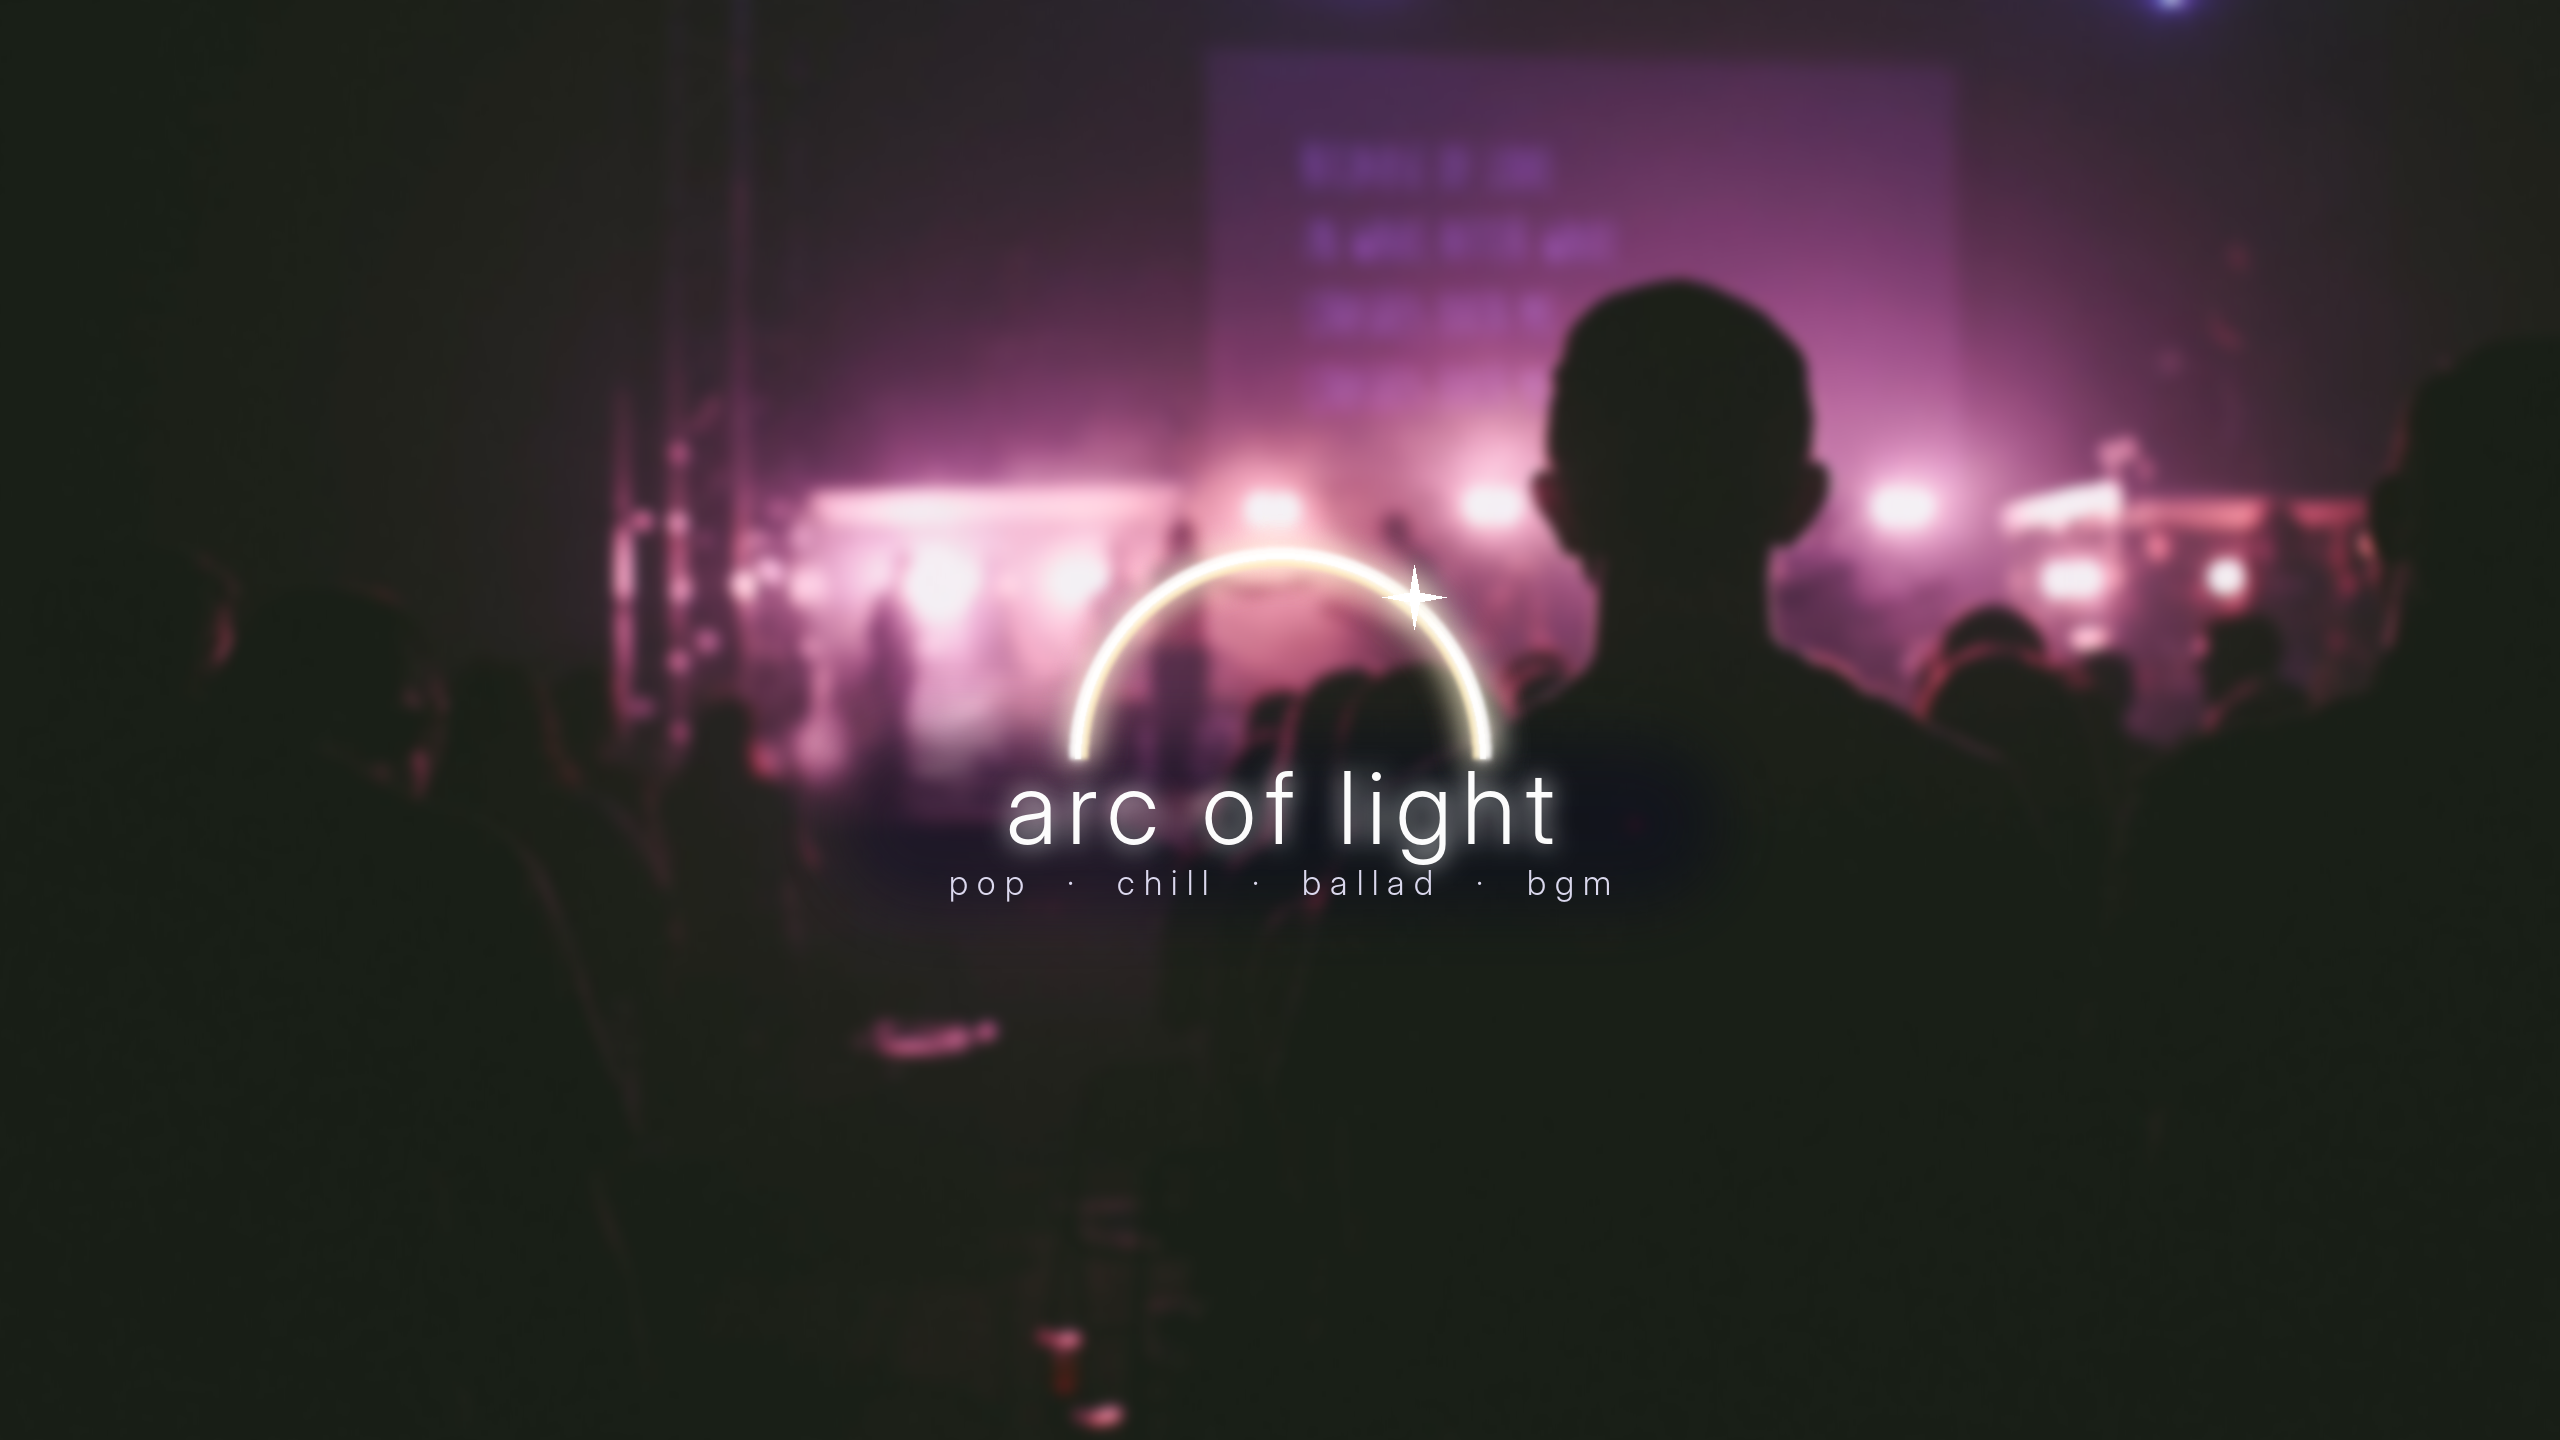
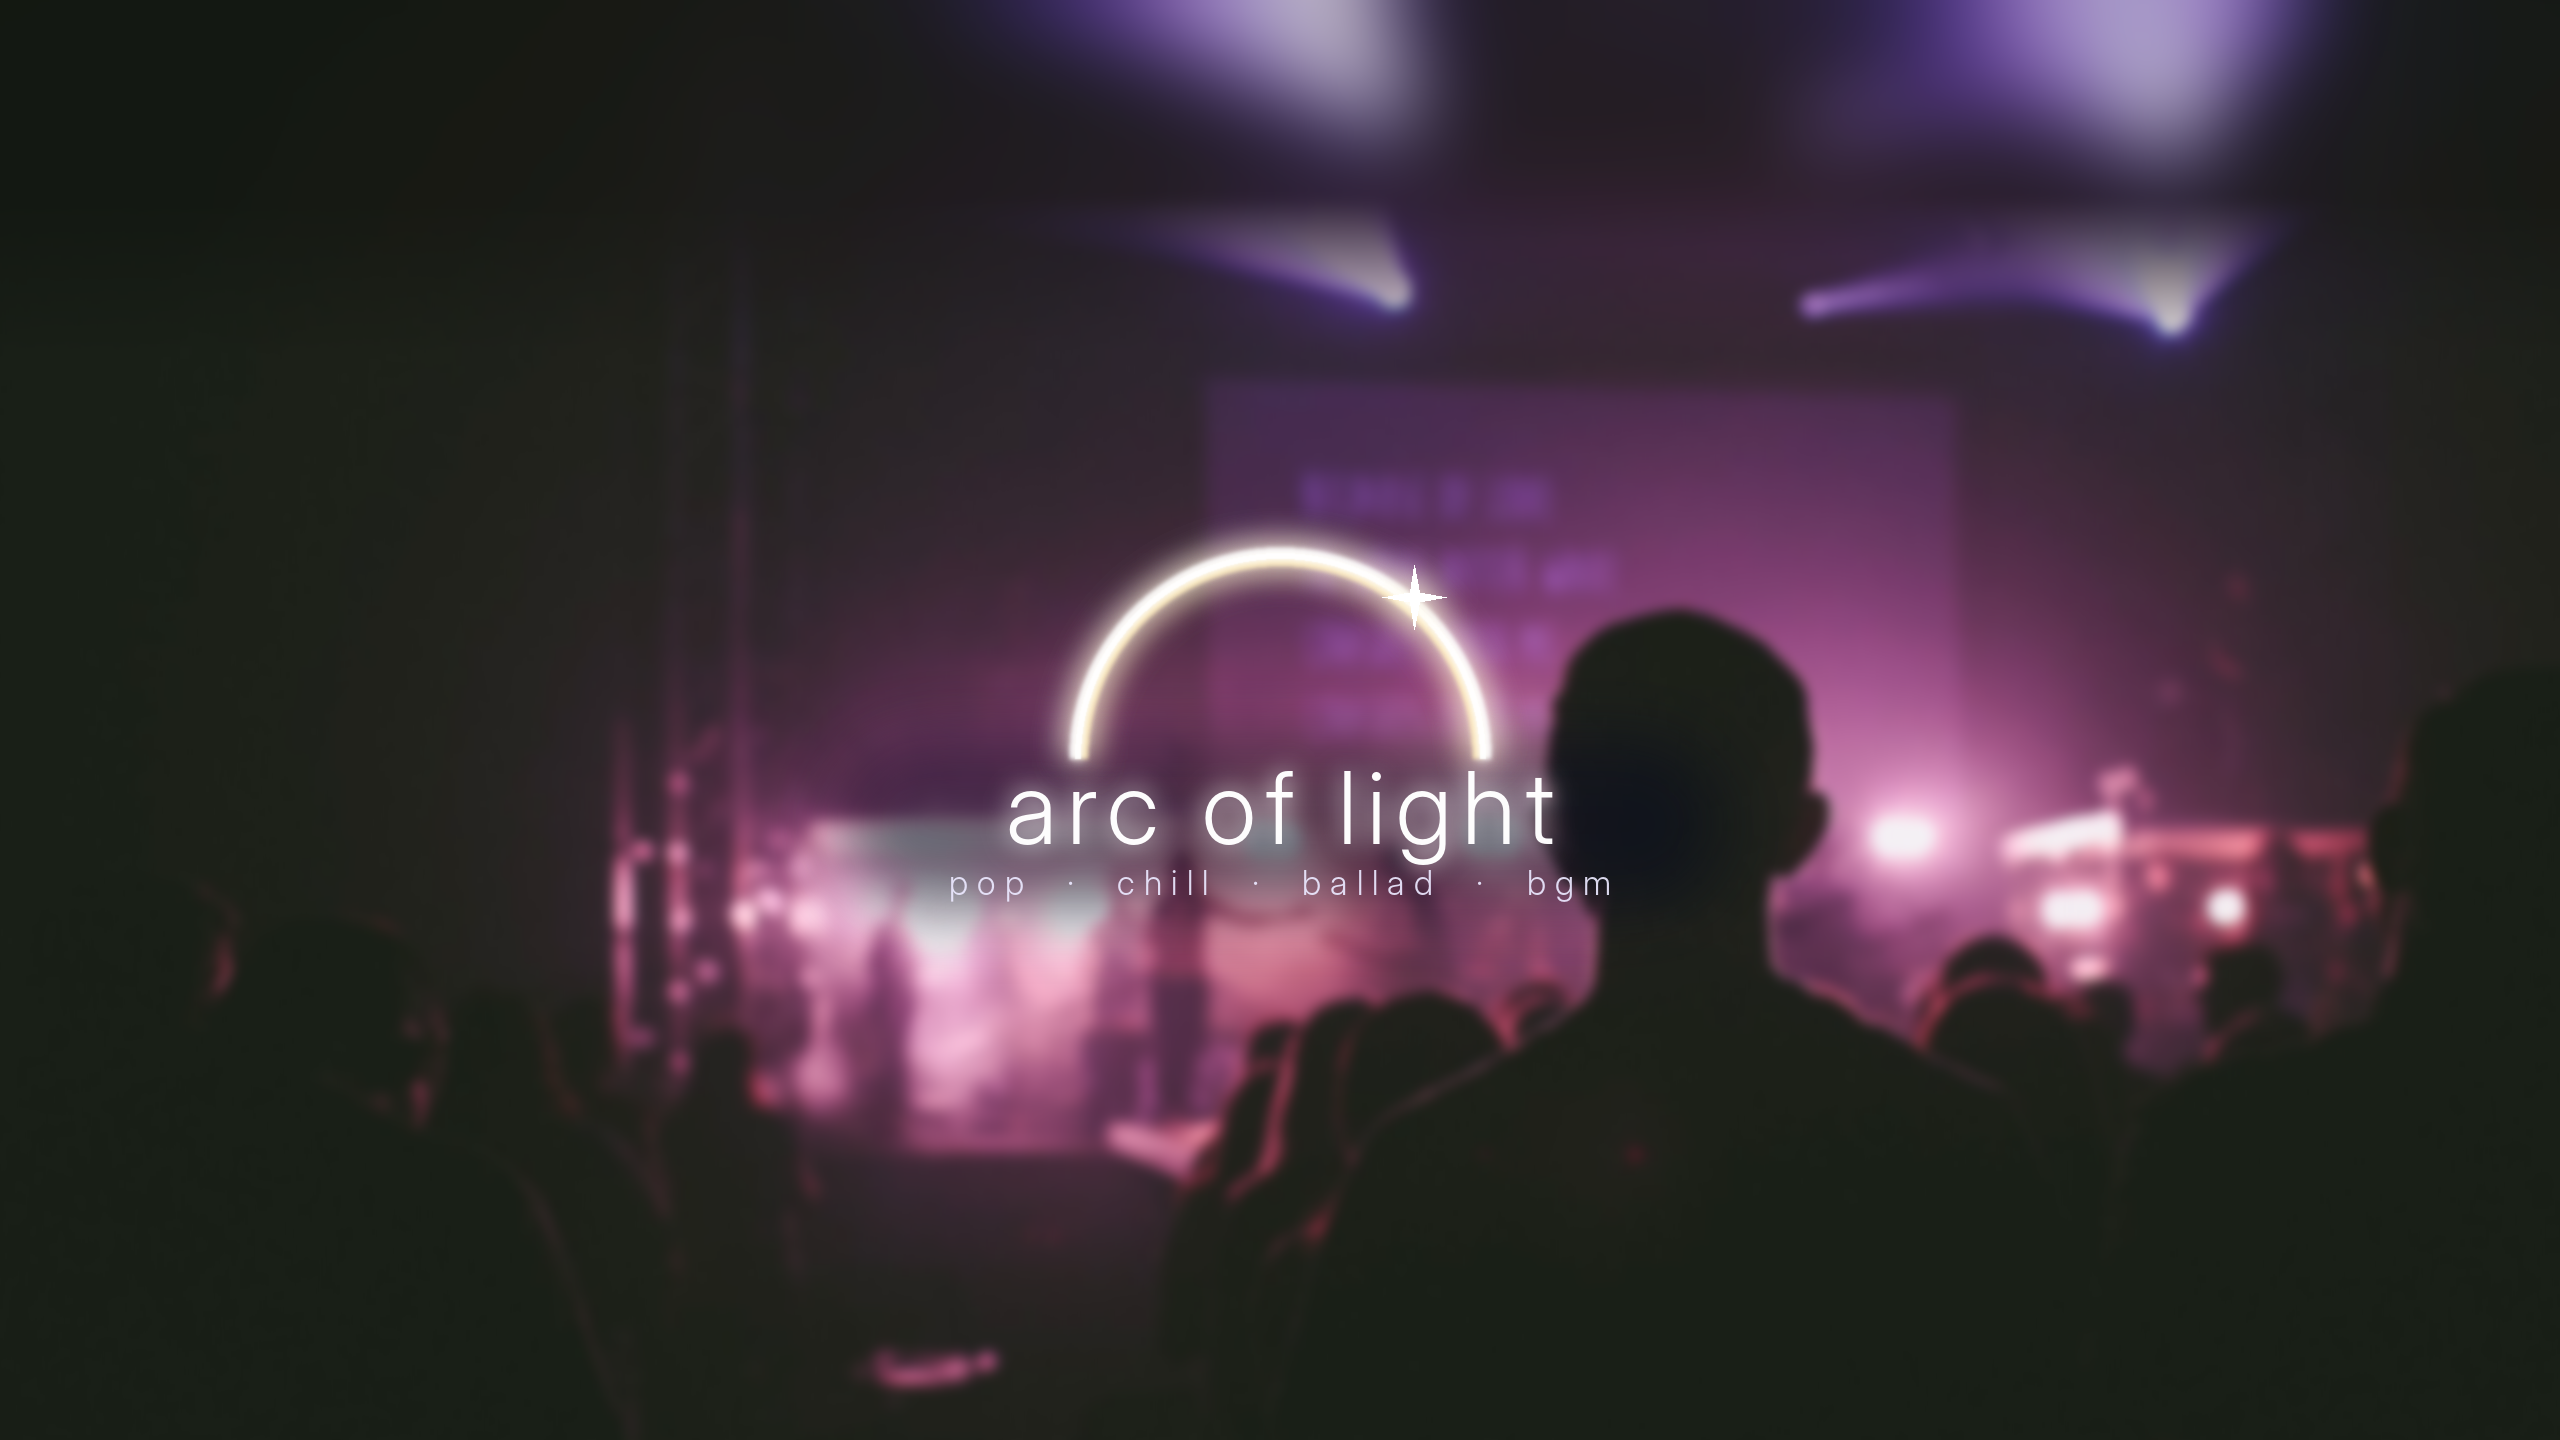
arc of light：ライブ版バナーの写真を下へずらし、後ろ姿の頭を中央の枠に収める
Claude-Session: https://claude.ai/code/session_016yye45m5vLS41jvX7Nye7Y

diff --git a/arc_of_light/make_brand_images.py b/arc_of_light/make_brand_images.py
@@ -210,14 +210,29 @@ def all_old():
     print("done")
 
 
-def photo_bg(path, w, h, bright=1.08, soften=0):
+def photo_bg(path, w, h, bright=1.08, soften=0, yshift=0):
     # 写真を枠いっぱいに切り抜き、少し明るく、やわらかくする
     from PIL import ImageEnhance
     p = Image.open(path).convert("RGB")
     s = max(w / p.width, h / p.height)
     p = p.resize((int(p.width * s) + 1, int(p.height * s) + 1), Image.LANCZOS)
     x, y = (p.width - w) // 2, (p.height - h) // 2
-    p = p.crop((x, y, x + w, y + h))
+    if yshift:
+        # 写真を下へずらす（人の頭などを中央の枠に入れる）。上にできるすき間は、
+        # 写真の上の方を引きのばしてぼかした物で埋め、つなぎ目はぼかしてなじませる
+        canvas = p.crop((x, 0, x + w, max(1, y + h - yshift))).resize((w, h)).filter(ImageFilter.GaussianBlur(40))
+        canvas = ImageEnhance.Brightness(canvas).enhance(0.8)
+        top = y - yshift
+        part = p.crop((x, max(0, top), x + w, y + h - yshift))
+        mask = Image.new("L", part.size, 255)
+        feather = 160
+        md = ImageDraw.Draw(mask)
+        for i in range(feather):
+            md.line([(0, i), (part.width, i)], fill=int(255 * i / feather))
+        canvas.paste(part, (0, max(0, -top)), mask)
+        p = canvas
+    else:
+        p = p.crop((x, y, x + w, y + h))
     p = ImageEnhance.Brightness(p).enhance(bright)
     p = ImageEnhance.Color(p).enhance(1.1)
     if soften:
@@ -265,7 +280,7 @@ def plaza():
     plaza_banner()
 
 
-def photo_version(name, photo, soften_icon, soften_banner, dark=True):
+def photo_version(name, photo, soften_icon, soften_banner, dark=True, yshift=0):
     # 写真の版（レコード店・ライブ・ネオンの街など）。暗い写真は白い文字、明るい写真は紺の文字
     ink = (255, 255, 255, 250) if dark else INK
     sub = (235, 232, 255, 235) if dark else (60, 64, 120, 235)
@@ -286,7 +301,7 @@ def photo_version(name, photo, soften_icon, soften_banner, dark=True):
     im.convert("RGB").save(OUT / f"icon_{name}_800.png")
 
     w, h = 2560, 1440
-    im = photo_bg(OUT / photo, w, h, bright=1.0 if dark else 1.08, soften=soften_banner)
+    im = photo_bg(OUT / photo, w, h, bright=1.0 if dark else 1.08, soften=soften_banner, yshift=yshift)
     sx0, sy0 = (w - 1546) / 2, (h - 423) / 2
     # 弧・文字・きらめきを、どの画面でも見える中央の枠（1546×423）の内側に余白を取って収める
     im.alpha_composite(veil_c((w, h), (sx0 + 330, sy0 + 230, sx0 + 1216, sy0 + 400), 150 if dark else 205))
@@ -303,7 +318,7 @@ def photo_version(name, photo, soften_icon, soften_banner, dark=True):
 
 def photos_all():
     photo_version("records", "records_1.jpg", 4, 8)
-    photo_version("live", "live_1.jpg", 3, 6)
+    photo_version("live", "live_1.jpg", 3, 6, yshift=330)
     photo_version("neon", "neon_1.jpg", 14, 26)
 
 
